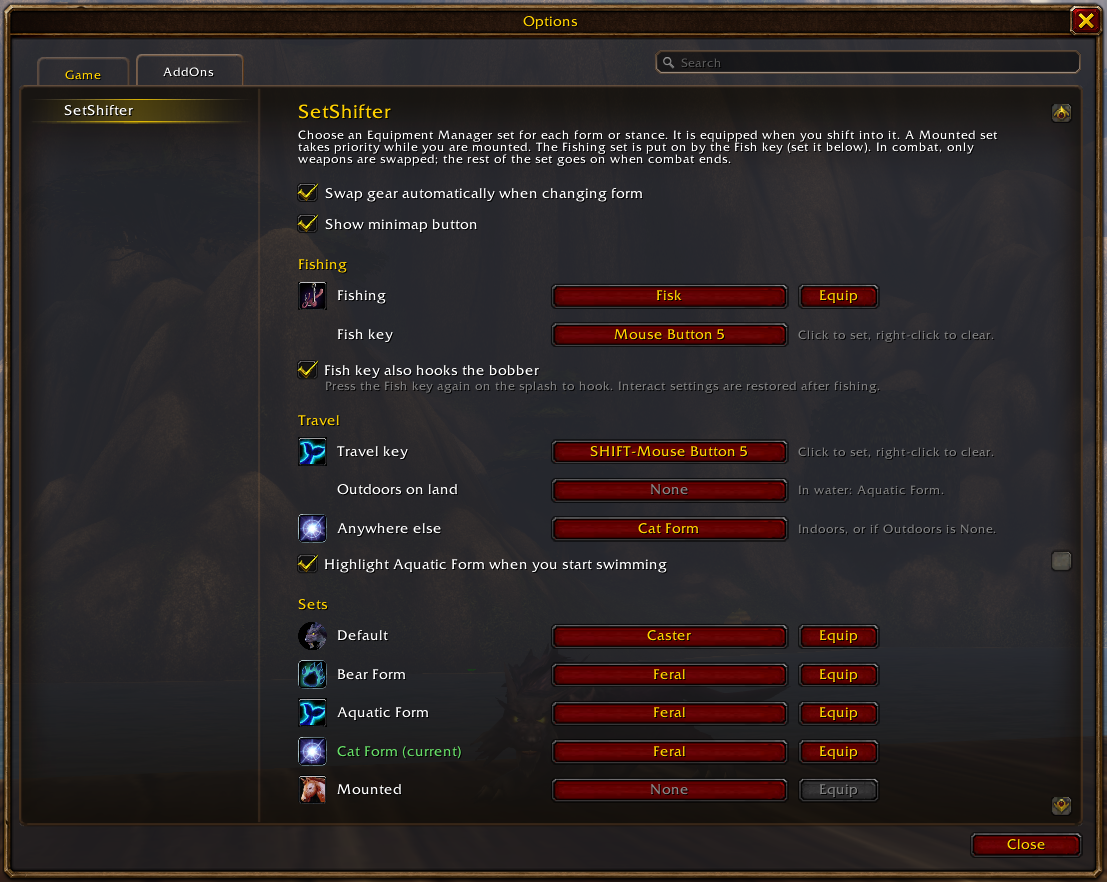
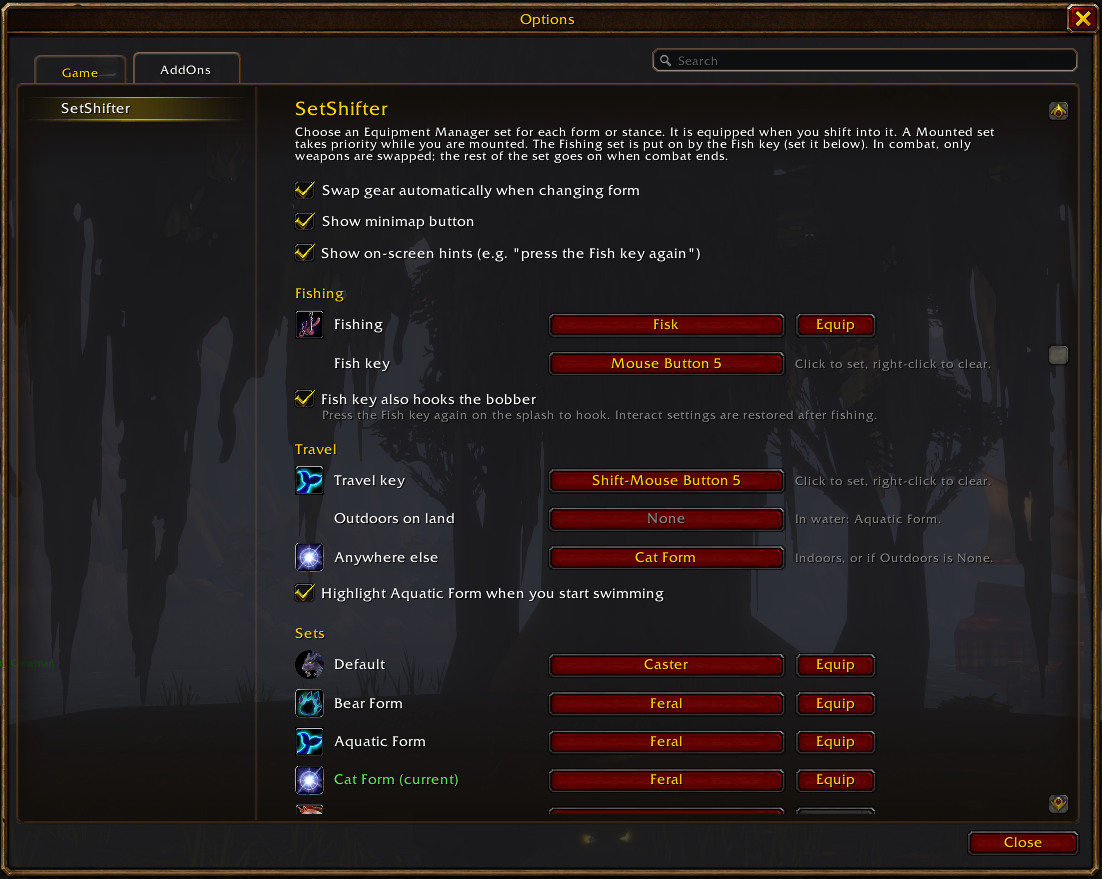
Add Fish key reminder, readable key names and a hints toggle
- First press of the Fish key shows "Fishing set on: press <key> again
  to cast", in the same style as the Aquatic Form hint.
- Key names read "Shift-Mouse Button 5" instead of "SHIFT-Mouse Button 5"
  in the settings, messages and /setshifter list.
- New "Show on-screen hints" setting turns those messages off; the
  Aquatic Form highlight keeps its own checkbox.
- New settings screenshot.

diff --git a/README.md b/README.md
@@ -39,7 +39,7 @@ The **Fishing** section of the settings lets you pick a set to fish in, with you
 
 With the key bound:
 
-1. The first press equips your Fishing set.
+1. The first press equips your Fishing set, and a message reminds you to press the key again.
 2. The next press casts Fishing, and so does every press after that.
 
 You need two presses because an addon can't equip the pole and cast in the same key press: the cast would fire before the pole is in your hand.
@@ -95,6 +95,7 @@ To hide it, untick **Show minimap button** in the settings, or type `/setshifter
 
 - **Combat:** armor can't be changed during combat, but weapons can. If you shift while in combat, SetShifter swaps the set's weapons right away (main hand, off hand/shield and ranged). It equips the rest of the set for your current form as soon as combat ends.
 - **Mapped by name:** forms are mapped by their spell name, not their position on the stance bar. Your mappings keep working when talents add or remove forms, such as Moonkin Form.
+- **On-screen hints:** short light-blue messages, such as the reminder to press the Fish key again or the Aquatic Form hint, appear where WoW shows error messages. To turn them off, untick **Show on-screen hints** in the settings. The Aquatic Form highlight on the stance bar has its own checkbox.
 - **Login:** logging in never swaps your gear.
 - **Per character:** each character has its own SetShifter settings. The Fish and Travel keys follow WoW's own setting: they're per character if **Character Specific Key Bindings** is ticked in Key Bindings, and account-wide otherwise.
 
